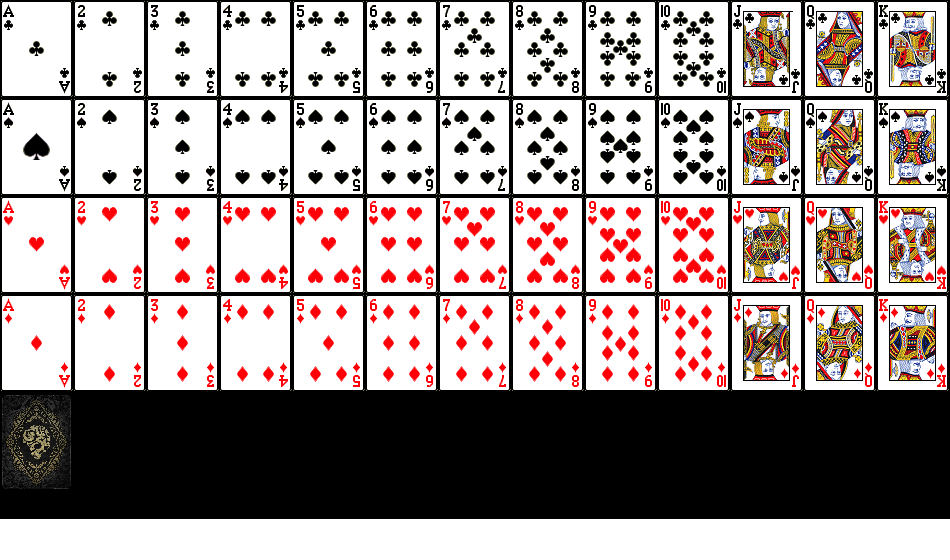
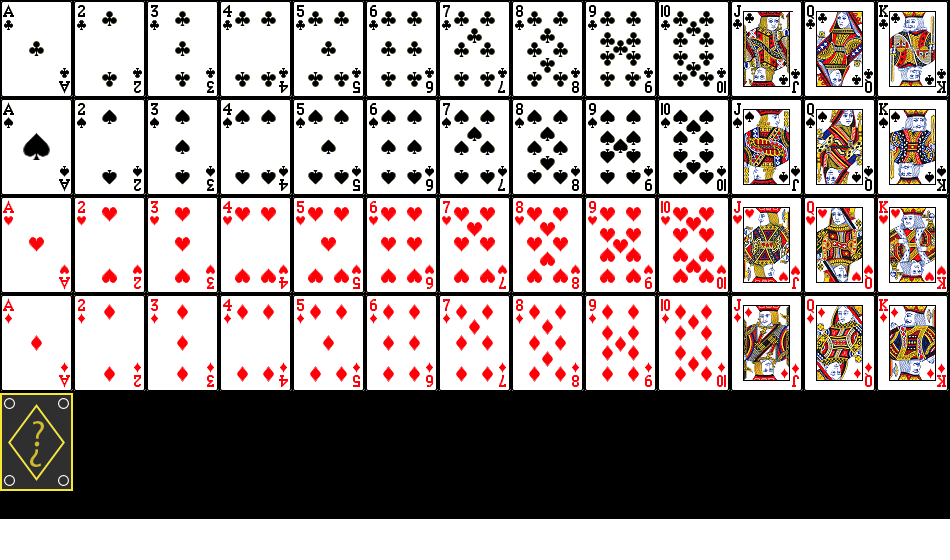
added card selection and some things idk

Changed region(s): [[0.0, 0.6982, 0.0916, 0.8804]]

diff --git a/Deck.cpp b/Deck.cpp
@@ -4,12 +4,25 @@ Deck::Deck(std::vector<Card> c, sf::Texture &txt, int vis){
     cards=c;
     texture = &txt;
     visibility=vis;
+    organise(1000);
 }
+Deck::Deck(sf::Texture &txt, int vis){
+     texture = &txt;
+    visibility=vis;
+}
+Deck::Deck(){}
 void Deck::deal(Deck &d2, int amount){
     for(int i=0; i<amount; i++){
     cards.push_back(d2.cards[i]);
     d2.cards.erase(d2.cards.begin());
+    organise(1000);
 }
+}
+void Deck::dealAt(Deck &d2 ,int n){
+cards.push_back(d2.cards[n]);
+d2.cards.erase(d2.cards.begin()+n);
+organise(1000);
+d2.organise(1000);
 }
 void Deck::print(){
     for(int i=0; i<cards.size(); i++) std::cout<<cards[i].colorId<<", "<<cards[i].value<<", "<<i<<std::endl;
@@ -21,18 +34,19 @@ void Deck::shuffle(){
         Card temp=cards[index];
         cards[index]=cards[index2];
         cards[index2]=temp;
+        organise(1000);
     }
 }
 void Deck::draw(sf::RenderTarget& target, sf::RenderStates states) const{
     states.transform*=getTransform();
-    sf::Vector2f pos(getPosition().x,getPosition().y);
+    sf::Vector2f pos(0,0);
     switch(visibility){
         case 0:{
             sf::Sprite sprite;
             sprite.setTexture(*texture);
             sprite.setTextureRect(sf::IntRect(0,393,73,98));
             if(cards.size()>1){
-                sprite.setPosition(getPosition().x, getPosition().y);
+                sprite.setPosition(pos);
                 target.draw(sprite,states);
                 sprite.move(20,20);
                 target.draw(sprite,states);
@@ -43,29 +57,31 @@ void Deck::draw(sf::RenderTarget& target, sf::RenderStates states) const{
             sprite.setTexture(*texture);
             sprite.setTextureRect(sf::IntRect(0,393,73,98));
             for(int i=0; i<cards.size(); i++){
-                if(pos.x+80>target.getSize().x){
-            pos.x=getPosition().x;
-            pos.y+=105.f;
-        }
-        sprite.setPosition(pos);
+        sprite.setPosition(cards[i].pos);
         target.draw(sprite, states);
-        pos.x+=80.f;
             }
         } break;
         case 2:{
              sf::Sprite sprite;
         sprite.setTexture(*texture);
     for(int i=0; i<cards.size(); i++){
-        if(pos.x+80>target.getSize().x){
-            pos.x=getPosition().x;
-            pos.y+=105.f;
-        }
-
+         sf::RectangleShape shape(sf::Vector2f(100.f,100.f));
+    shape.setFillColor(sf::Color::Red);
         sprite.setTextureRect(sf::IntRect((cards[i].value-1)*73,cards[i].colorId*98,73,98));
-        sprite.setPosition(pos);
+        sprite.setPosition(cards[i].pos);
         target.draw(sprite, states);
-        pos.x+=80.f;
     }
     }break;
     }
+}
+void Deck::organise(int width){
+    sf::Vector2f pos(0.f,0.f);
+for(int i=0; i<cards.size(); i++){
+        if(pos.x+80>width){
+            pos.x=getPosition().x;
+            pos.y+=105.f;
+        }
+        cards[i].pos=sf::Vector2f(pos.x,pos.y);
+        pos.x+=80.f;
+}
 }

diff --git a/main.cpp b/main.cpp
@@ -3,41 +3,20 @@
 #include <ctime>
 #include <iostream>
 #include <sstream>
-#include "Deck.h"
+#include "Game.h"
 
 int main()
 {
-    sf::Texture texture;
-    if(!texture.loadFromFile("cards.png")) std::cout<<"error";
 srand(time(NULL));
 std::string colors[4]={"Pik","Kier", "Karo", "Trefl"};
 int colorIds[4]={0,1,2,3};
 
-
-   std::vector<Card>cardStack;
-    Deck baseCards(cardStack, texture,0);
-    for(int i=0; i<4; i++){
-        for(int j=1; j<=13; j++){
-            Card card;
-            card.colorId=i;
-            card.value=j;
-            baseCards.cards.push_back(card);
-        }
-    }
-    baseCards.shuffle();
-    std::vector<Card> c;
-    Deck hand1(c,texture,2);
-    hand1.deal(baseCards, 5);
-    hand1.setPosition(100.f,0.f);
-    std::vector<Card> c2;
-    Deck hand2(c2, texture,1);
-    hand2.deal(baseCards,5);
-    hand2.setPosition(100.f,300.f);
-    hand1.print();
-    hand2.print();
-    sf::RenderWindow window(sf::VideoMode(1000, 800), "Cards");
+    Game game("cards.png");
+    sf::RenderWindow window(sf::VideoMode(1600, 1000), "Cards");
     window.setVerticalSyncEnabled(true);
-
+    sf::Texture backgroundTxt;
+    if(!backgroundTxt.loadFromFile("background.png"));
+    sf::Sprite background(backgroundTxt);
    while (window.isOpen())
     {
         sf::Event event;
@@ -45,13 +24,17 @@ int colorIds[4]={0,1,2,3};
         {
             if (event.type == sf::Event::Closed)
                 window.close();
+            if(event.type==sf::Event::MouseButtonPressed){
+                sf::Vector2i localPosition = sf::Mouse::getPosition(window);
+            std::cout<<"x: "<<localPosition.x<<std::endl;
+            std::cout<<"y: "<<localPosition.y<<std::endl;
+            game.selectCard(localPosition);
+            }
         }
 
-
        window.clear(sf::Color(33, 140, 116));
-        window.draw(hand1);
-        window.draw(hand2);
-        window.draw(hand2);
+       window.draw(background);
+       window.draw(game);
         window.display();
     }
 

diff --git a/Game.cpp b/Game.cpp
@@ -1,0 +1,45 @@
+#include "Game.h"
+#include <iostream>
+Game::Game(std::string path){
+        if(!texture.loadFromFile("cards.png")) std::cout<<"error";
+        d1=Deck(texture,2);
+        d2=Deck(texture,1);
+        cardsLeft=Deck(texture,0);
+        currentCards=Deck(texture,2);
+        for(int i=0; i<4; i++){
+        for(int j=1; j<=13; j++){
+            Card card;
+            card.colorId=i;
+            card.value=j;
+            cardsLeft.cards.push_back(card);
+        }
+    }
+    cardsLeft.shuffle();
+    cardsLeft.setPosition(250.f,250.f);
+    d1.deal(cardsLeft, 5);
+    d1.setPosition(300.f,500.f);
+    d2.deal(cardsLeft,5);
+    d2.setPosition(300.f,0.f);
+    currentCards.deal(cardsLeft,1);
+    currentCards.setPosition(400.f,250.f);
+}
+
+void Game::draw(sf::RenderTarget &target, sf::RenderStates states) const{
+target.draw(d1,states);
+target.draw(d2,states);
+target.draw(cardsLeft, states);
+target.draw(currentCards, states);
+}
+void Game::selectCard(sf::Vector2i mousePos){
+
+for(int i=0; i<d1.cards.size(); i++){
+    if(mousePos.x>=d1.cards[i].pos.x+d1.getPosition().x &&
+       mousePos.x<=d1.cards[i].pos.x+73+d1.getPosition().x &&
+       mousePos.y>=d1.cards[i].pos.y+d1.getPosition().y &&
+       mousePos.y<=d1.cards[i].pos.y+98+d1.getPosition().y
+       ){
+        std::cout<<d1.cards[i].colorId<<", "<<d1.cards[i].value<<", "<<i<<std::endl;
+        currentCards.dealAt(d1,i);
+       }
+}
+}

diff --git a/Deck.h b/Deck.h
@@ -6,6 +6,7 @@
 struct Card{
 int colorId;
 int value;
+sf::Vector2f pos;
 };
 class Deck : public sf::Transformable, public sf::Drawable{
     public:
@@ -13,11 +14,15 @@ class Deck : public sf::Transformable, public sf::Drawable{
         sf::VertexArray mVertices;
         std::vector<Card> cards;
         Deck(std::vector<Card> c, sf::Texture &txt, int vis);
+        Deck(sf::Texture &txt, int vis);
+        Deck();
         int visibility;
         void deal(Deck &d2, int amount);
         void print();
         void shuffle();
+        void dealAt(Deck &d2 ,int n);
     private:
         virtual void draw(sf::RenderTarget& target, sf::RenderStates states) const; //used to draw all cards
+        void organise(int width);
 };
 #endif // DECK_H

diff --git a/Game.h b/Game.h
@@ -1,0 +1,17 @@
+#ifndef GAME_H
+#define GAME_H
+#include "Deck.h"
+class Game : public sf::Drawable {
+    public:
+        Deck d1;
+        Deck d2;
+        Deck cardsLeft;
+        Deck currentCards;
+        Game(std::string path);
+        sf::Texture texture;
+        void selectCard(sf::Vector2i mousePos);
+    private:
+        virtual void draw(sf::RenderTarget &target, sf::RenderStates states) const;
+
+};
+#endif // GAME_H
